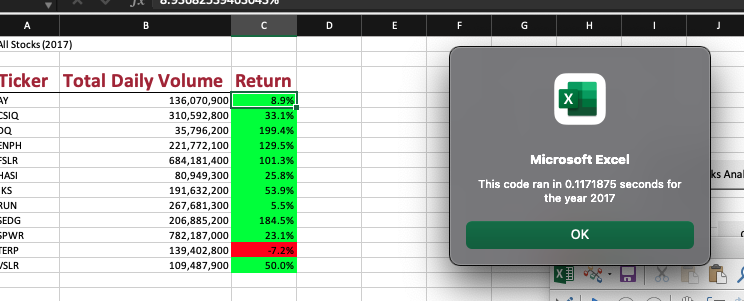
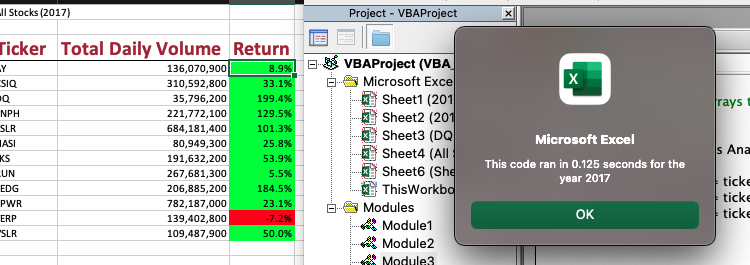
refined pics

diff --git a/README.md b/README.md
@@ -92,14 +92,26 @@ Here comes the fix:
 
 ### Run time analysis
 Here are the run time comparison shown below.
+
 2017 original vs 2017 refactored
+![](resource/1-2017.png)
+![](resource/2-2017.png)
+
 
 2018 original vs 2018 refactored
+![](resource/1-2018.png)
+![](resource/1-2018.png)
 
 After refactoring, you can see our run time for 2017 and our changed drastically. 
 
 
 ### Data results 
+
+
+![](resource/stock2017.png)
+![](resource/stock2018.png)
+
+
 After we refactored the data, we got the same value as the original one. We can see clearly in 2017 almost all green stocks had  good results. Except 'TERP' with a negative return rate . The two most high returned rate stocks are 'DQ' and SEDG. The most traded with the higher total daily volumes stocks are "SPWR" and "FSLR". Other stocks such as 'CSIQ','ENPH','JKS','RUN' and 'SEDG' also had good market popularity with total daily volumes around 200 million.
 In 2018, the data showed drastic changes. There are only stock 'ENPH' and 'RUN' provided positive return rate with the highest daily earnings volume.The 'ENPH' total daily volume increased from 200 million to 600 million, and  the stock 'RUN' increased from 200 million to 500 million respectively.
 Based on the date we have seen from year 2017 to 2018, stock 'ENPH' and 'RUN' is the good stock for Steve and his parents to invest in.
@@ -110,7 +122,7 @@ Based on the date we have seen from year 2017 to 2018, stock 'ENPH' and 'RUN' is
 
 ## Summary
 
-### Pros and Cons of Refactoring code
+### Pros and Cons of refactoring code
 
 Potentially refactoring code will improve code readability and reduce comlexity and be more efficient by taking fewer steps, using less memory. 
 However, we may not have the luxury to refactoring code all the time due to its disadvantage. Code refactoring is time consuming especially when comes to big project that require major changes on both front and back end. If time is limited before releasing date, there will have a higher chance of failure due to code malfunction, lack of testing  and might cause to introduce bugs.
